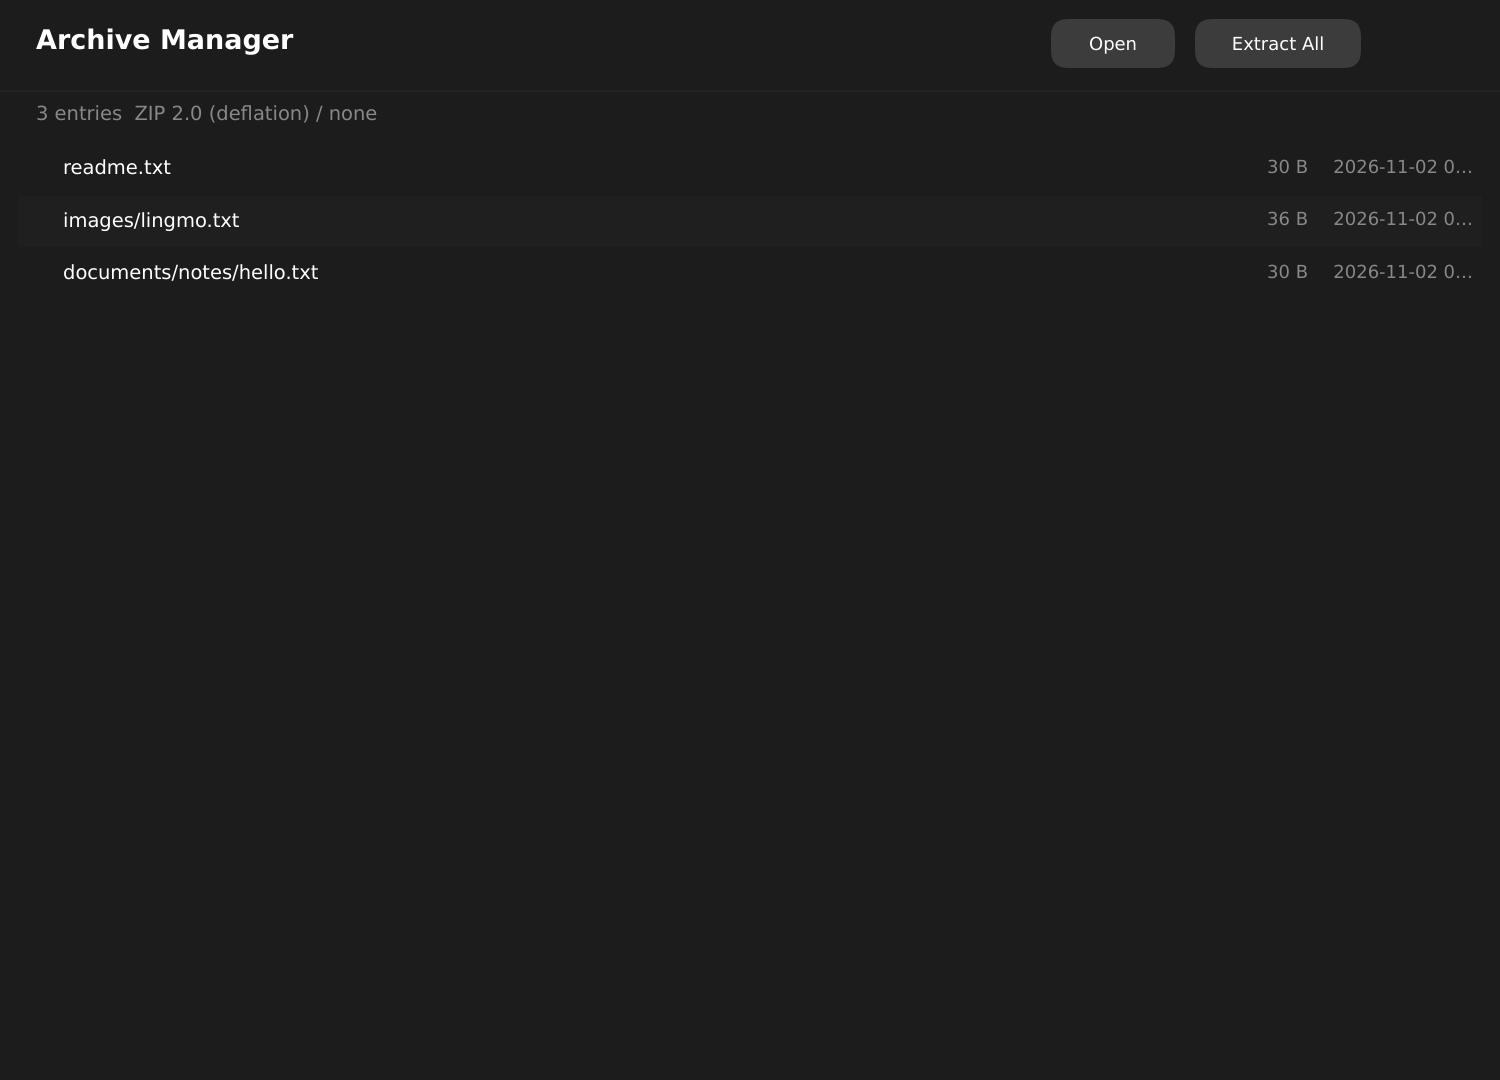
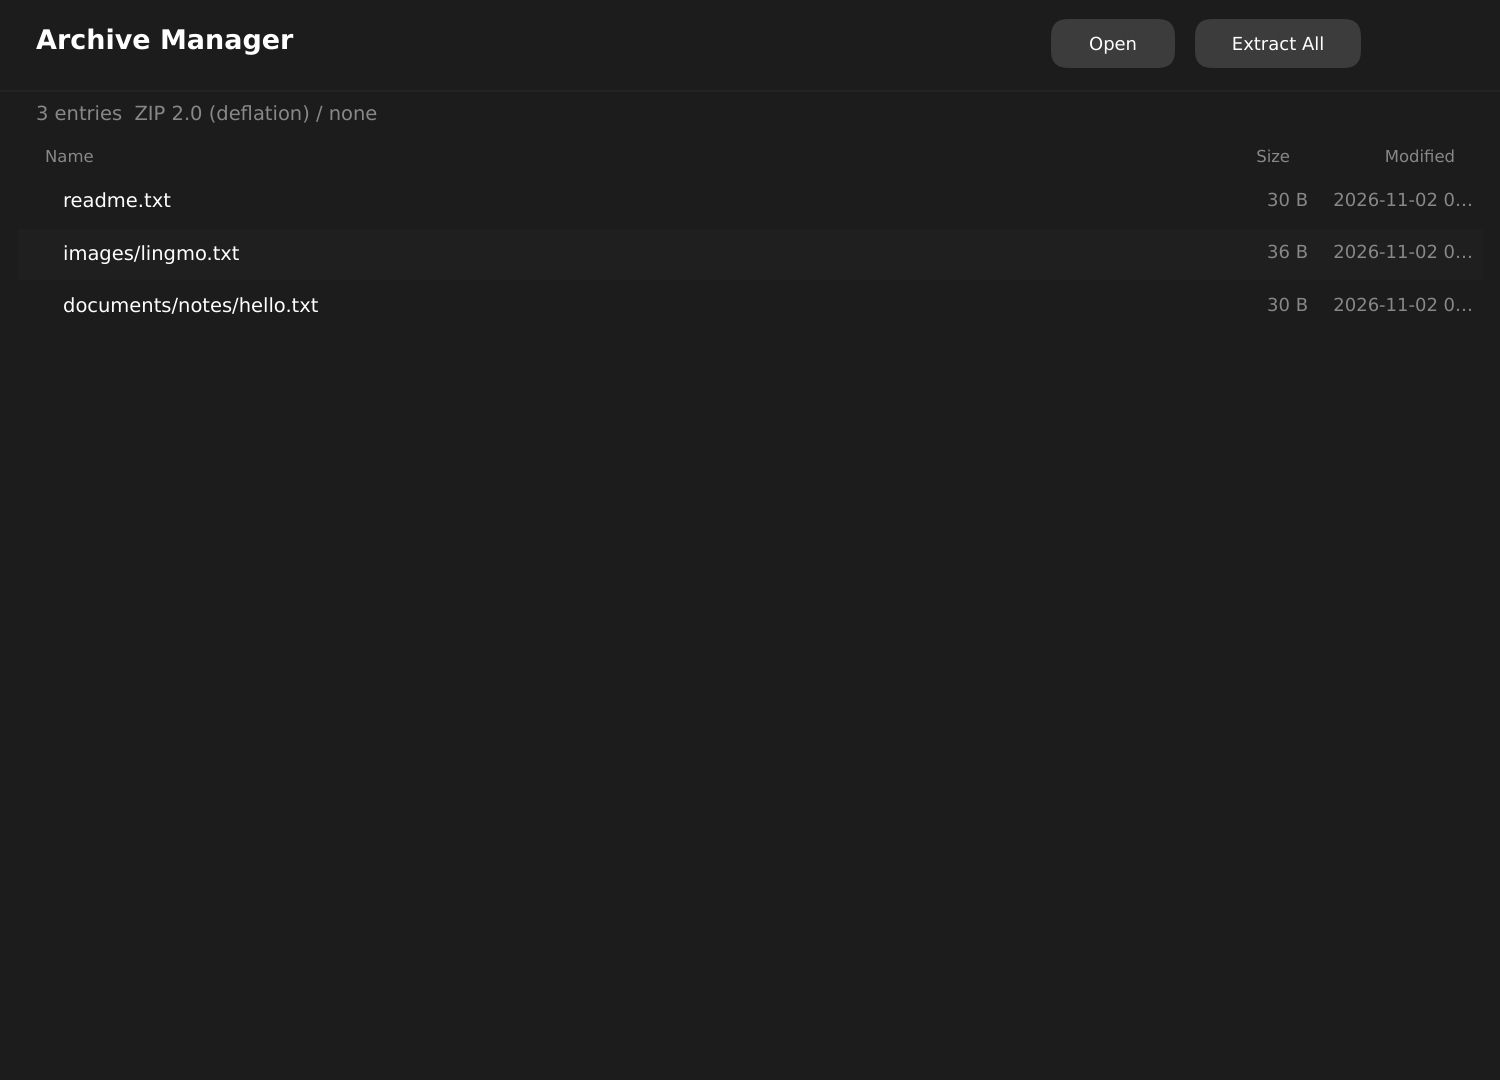
feat: add column headings to the archive list

Changed region(s): [[0.0307, 0.1222, 0.2147, 0.3056], [0.828, 0.1222, 0.9813, 0.3056], [0.828, 0.1222, 0.8587, 0.1528]]

diff --git a/src/main.cpp b/src/main.cpp
@@ -116,6 +116,15 @@ public:
         m_info->setFontSize(13);
         m_info->setColor(ColorRecipe(ColorId::DisabledText));
         m_info->setElide(Label::Elide::Middle);
+        m_columnName = addChild<Label>(tr("Name"));
+        m_columnSize = addChild<Label>(tr("Size"));
+        m_columnDate = addChild<Label>(tr("Modified"));
+        for (Label* label : {m_columnName, m_columnSize, m_columnDate}) {
+            label->setFontSize(11);
+            label->setColor(ColorRecipe(ColorId::DisabledText));
+        }
+        m_columnSize->setTextAlignment(Label::TextAlignment::Right);
+        m_columnDate->setTextAlignment(Label::TextAlignment::Right);
         m_scroll = addChild<ScrollView>();
         m_scroll->setName("entryScroll");
         m_rows = m_scroll->setContent<Column>();
@@ -166,8 +175,11 @@ protected:
         m_open->setGeometry({rect.width - 300, 12, 84, 34});
         m_extract->setGeometry({rect.width - 204, 12, 112, 34});
         m_info->setGeometry({24, 68, std::max(0.0, rect.width - 48), 20});
-        m_scroll->setGeometry({12, 96, std::max(0.0, rect.width - 24),
-                               std::max(0.0, rect.height - 134)});
+        const double listWidth = std::max(0.0, rect.width - 24);
+        m_columnName->setGeometry({30, 98, std::max(0.0, listWidth - 250), 18});
+        m_columnSize->setGeometry({listWidth - 206, 98, 90, 18});
+        m_columnDate->setGeometry({listWidth - 106, 98, 100, 18});
+        m_scroll->setGeometry({12, 118, listWidth, std::max(0.0, rect.height - 156)});
         m_status->setGeometry({24, rect.height - 30, std::max(0.0, rect.width - 48), 18});
     }
 
@@ -186,6 +198,9 @@ private:
     Button* m_open = nullptr;
     Button* m_extract = nullptr;
     Label* m_info = nullptr;
+    Label* m_columnName = nullptr;
+    Label* m_columnSize = nullptr;
+    Label* m_columnDate = nullptr;
     ScrollView* m_scroll = nullptr;
     Column* m_rows = nullptr;
     Label* m_status = nullptr;
